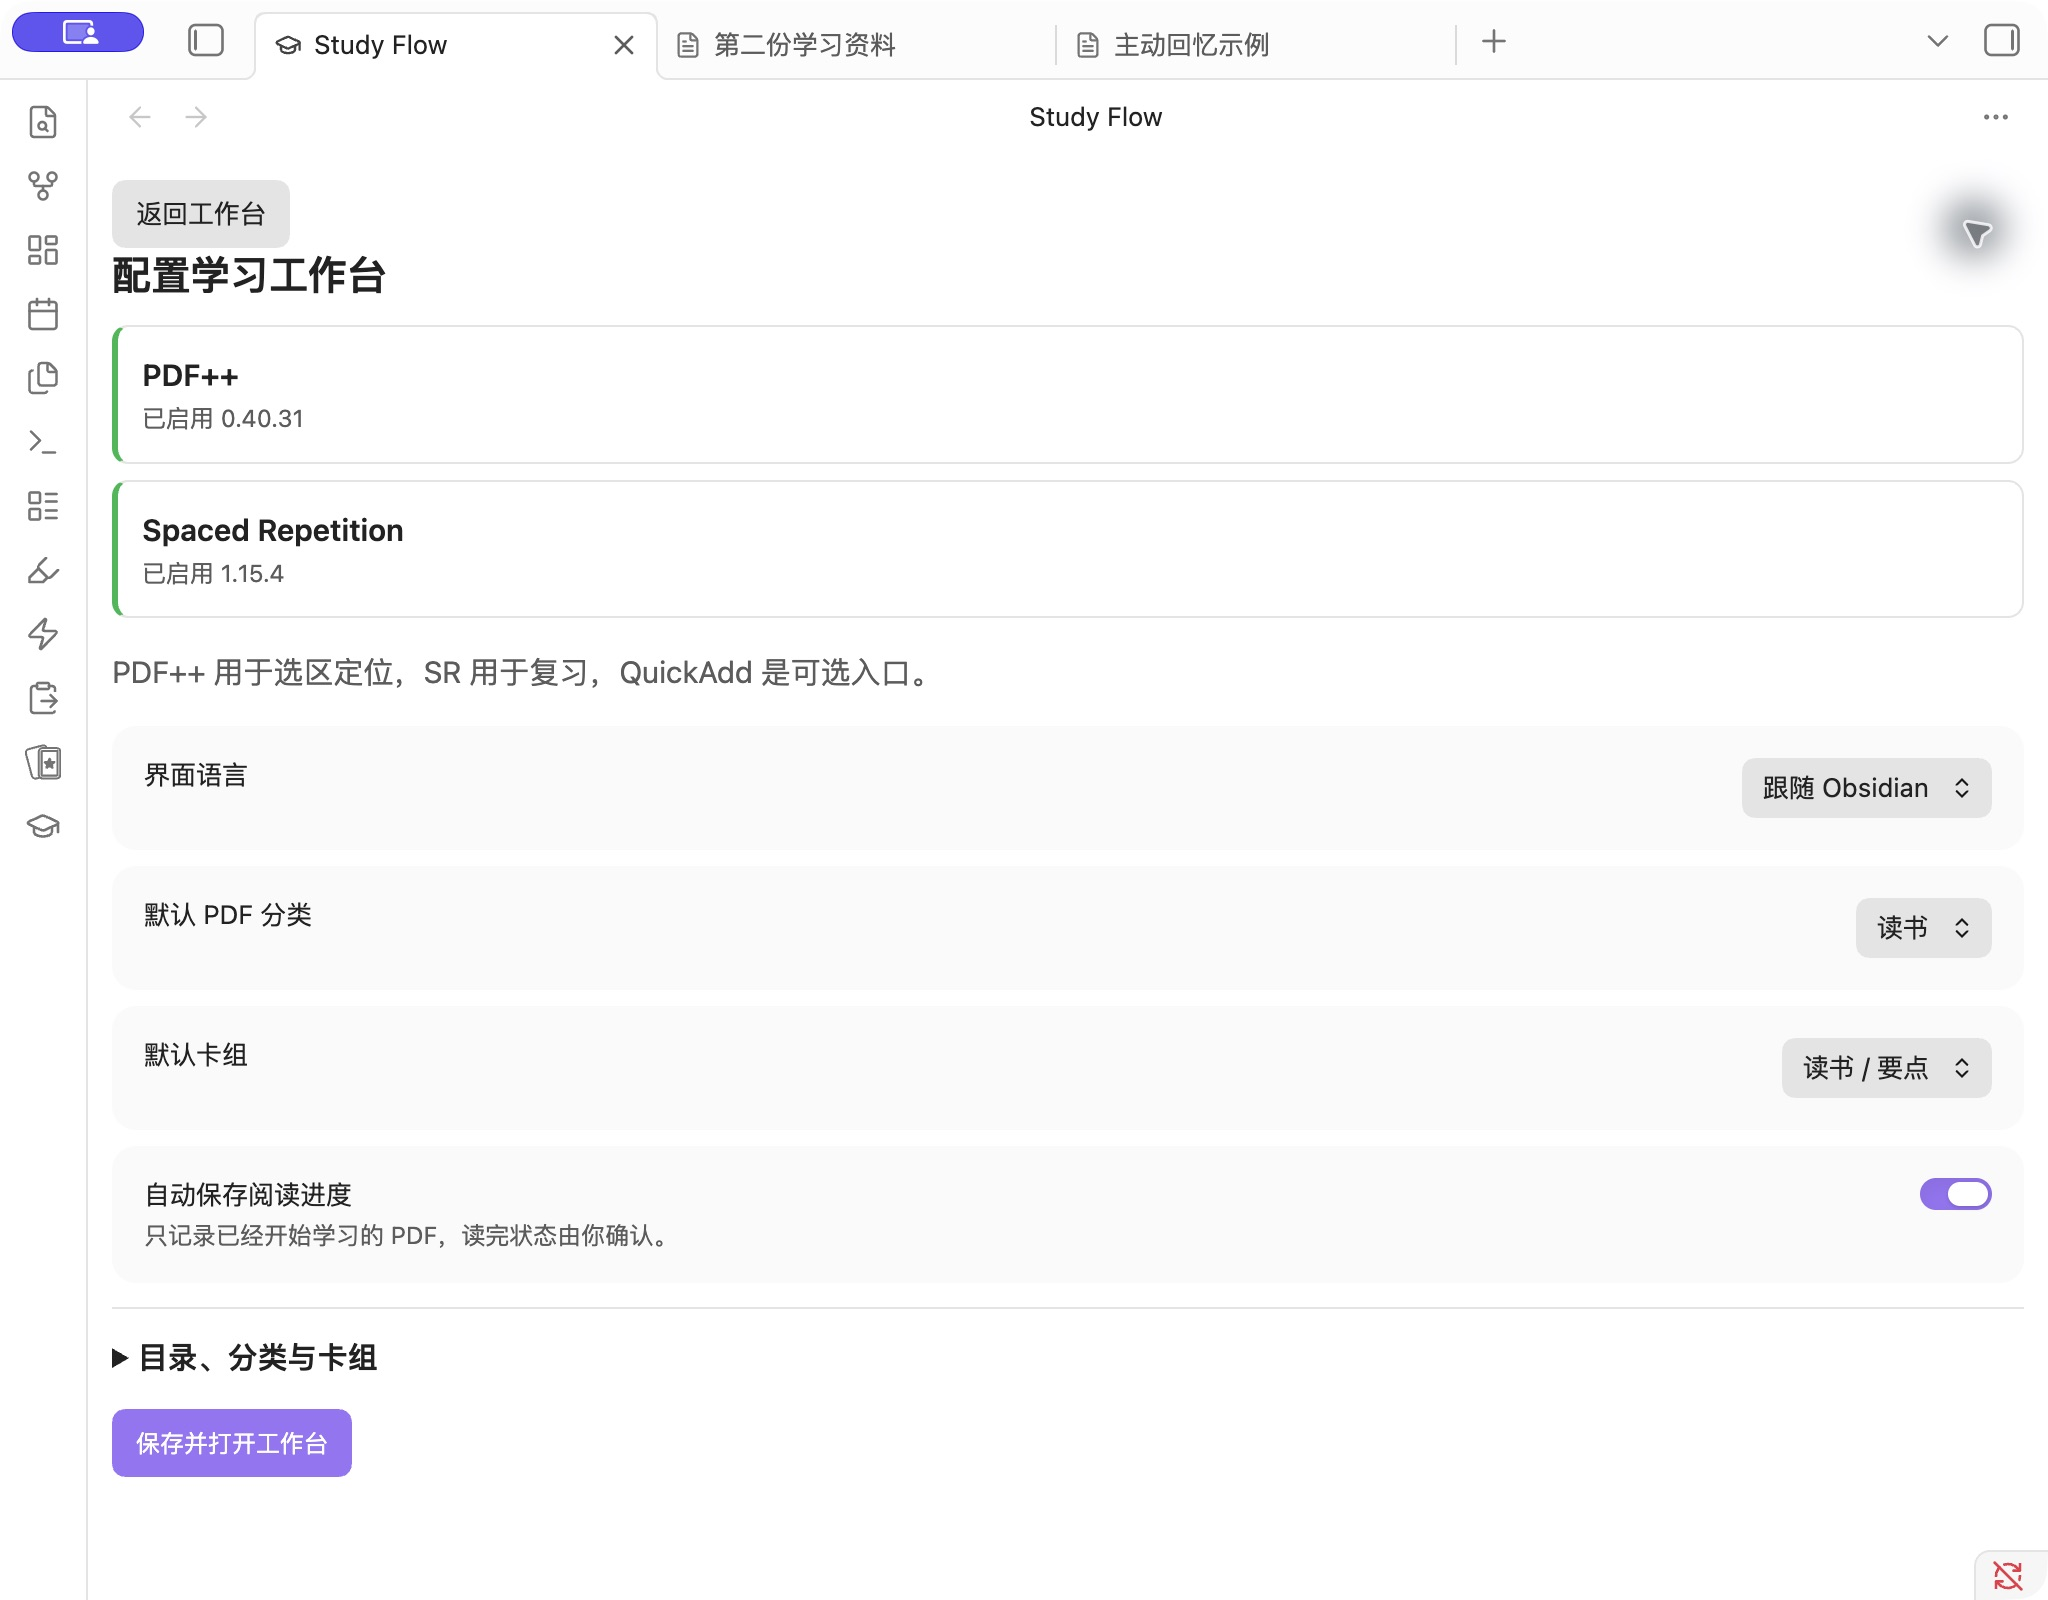
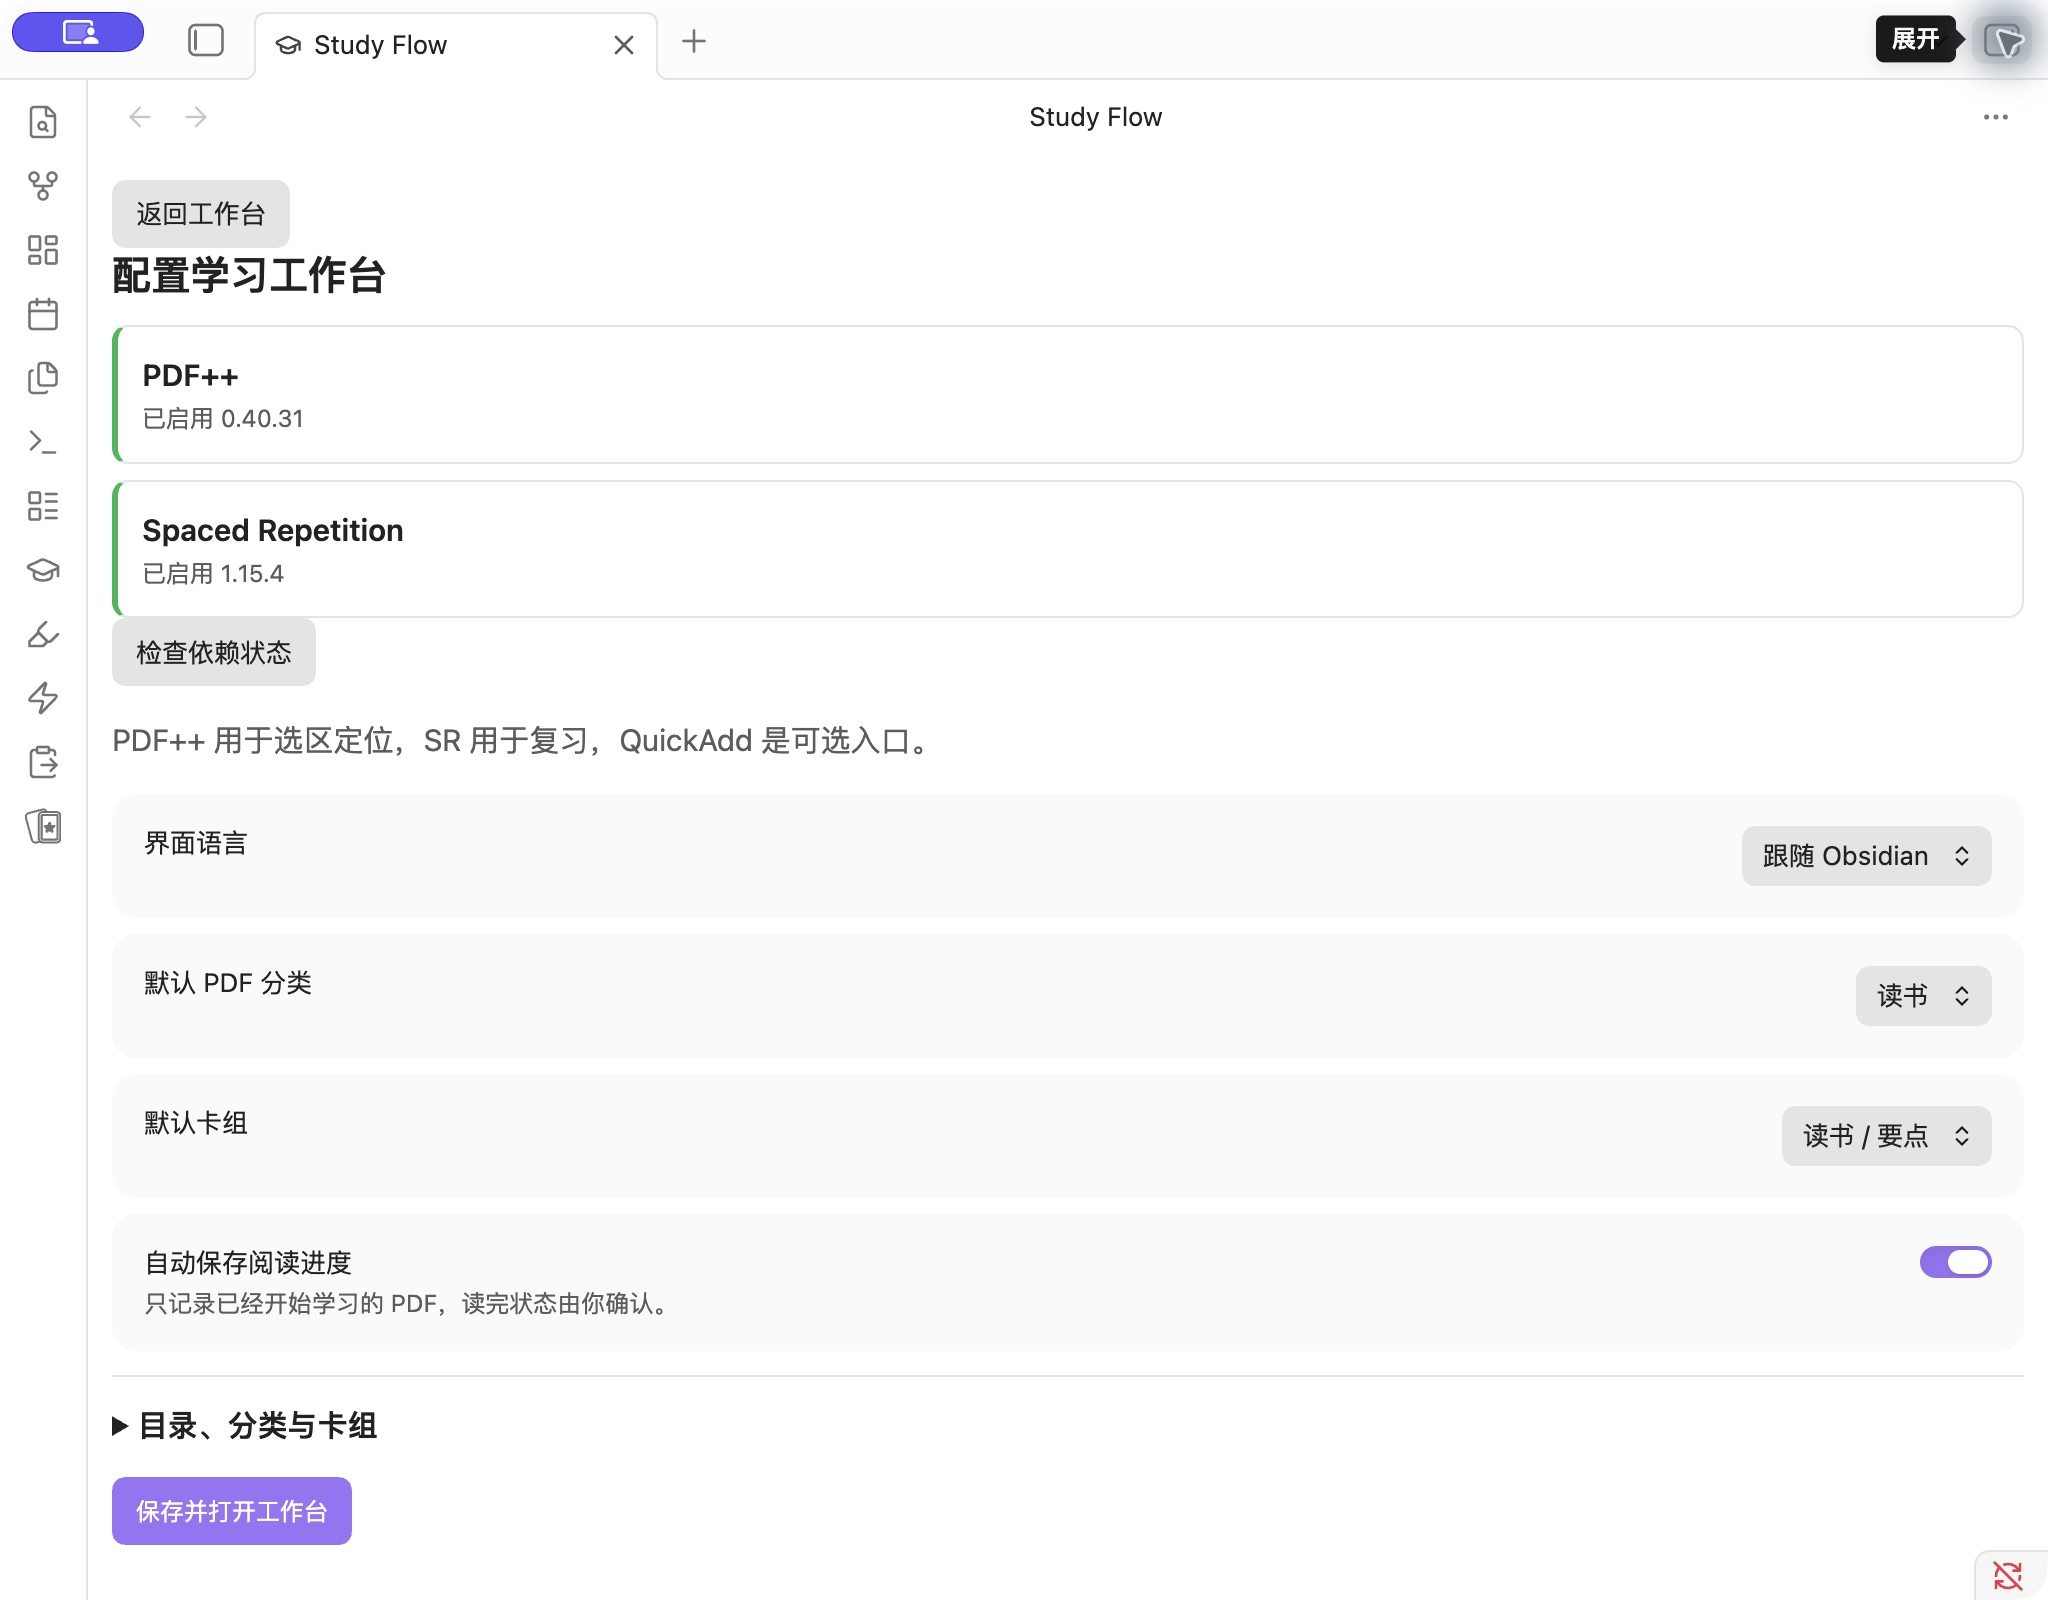
fix: refresh onboarding dependencies while preserving draft settings

diff --git a/src/ui/workbench.ts b/src/ui/workbench.ts
@@ -49,6 +49,7 @@ export class Workbench extends ItemView {
   private timer?: number;
   private closed = false;
   private configuring = false;
+  private configuration?: Configuration;
   constructor(
     leaf: WorkspaceLeaf,
     private plugin: StudyFlowPlugin,
@@ -80,6 +81,11 @@ export class Workbench extends ItemView {
   async onOpen(): Promise<void> {
     this.closed = false;
     this.contentEl.addClass("study-flow");
+    this.registerDomEvent(
+      this.containerEl.ownerDocument.defaultView ?? window,
+      "focus",
+      () => this.configuration?.refreshDependencies(),
+    );
     this.unsubscribe = this.plugin.service.index.subscribe(() => {
       if (this.timer) window.clearTimeout(this.timer);
       this.timer = window.setTimeout(() => this.render(), 100);
@@ -88,6 +94,7 @@ export class Workbench extends ItemView {
   }
   async onClose(): Promise<void> {
     this.closed = true;
+    this.configuration = undefined;
     this.unsubscribe?.();
     if (this.timer) window.clearTimeout(this.timer);
     this.contentEl.empty();
@@ -113,13 +120,15 @@ export class Workbench extends ItemView {
       this.configuring = true;
       const done = () => {
         this.configuring = false;
+        this.configuration = undefined;
         this.render();
       };
       if (p.settings.onboardingDone) {
         root.empty();
         action(root, t("返回工作台", "Back to workbench"), done, p);
       }
-      new Configuration(root, p, done).render();
+      this.configuration = new Configuration(root, p, done);
+      this.configuration.render();
     };
     action(header, t("设置", "Settings"), configure, p).addClass("sf-quiet");
     if (!p.ready) {
@@ -670,6 +679,7 @@ export class Workbench extends ItemView {
 }
 export class Configuration {
   private draft: Settings;
+  private dependenciesEl?: HTMLElement;
   constructor(
     private parent: HTMLElement,
     private plugin: StudyFlowPlugin,
@@ -677,12 +687,12 @@ export class Configuration {
   ) {
     this.draft = structuredClone(plugin.settings);
   }
-  render(): void {
+  refreshDependencies(): void {
     const p = this.plugin,
       t = p.t.bind(p),
-      root = this.parent.createDiv({ cls: "sf-configuration" });
-    root.createEl("h3", { text: t("配置学习工作台", "Set up your workbench") });
-    const deps = root.createDiv({ cls: "sf-dependencies" });
+      deps = this.dependenciesEl;
+    if (!deps?.isConnected) return;
+    deps.empty();
     for (const [id, name] of [
       ["pdf-plus", "PDF++"],
       ["obsidian-spaced-repetition", "Spaced Repetition"],
@@ -707,6 +717,20 @@ export class Configuration {
           p,
         );
     }
+  }
+  render(): void {
+    const p = this.plugin,
+      t = p.t.bind(p),
+      root = this.parent.createDiv({ cls: "sf-configuration" });
+    root.createEl("h3", { text: t("配置学习工作台", "Set up your workbench") });
+    this.dependenciesEl = root.createDiv({ cls: "sf-dependencies" });
+    this.refreshDependencies();
+    action(
+      root,
+      t("检查依赖状态", "Check dependencies"),
+      () => this.refreshDependencies(),
+      p,
+    );
     root.createEl("p", {
       cls: "sf-muted",
       text: t(

diff --git a/docs/validation-v0.2.md b/docs/validation-v0.2.md
@@ -24,7 +24,7 @@
 
 1,000 条验证是服务和索引测试，不代表应用内性能压力测试。多窗口和第三方内部接口需结合真实应用检查，不能由纯单元测试代替。
 
-CI 在 Windows / macOS / Linux 的 Node 20 环境执行安装、严格检查、45 项测试与打包；具体状态请看本 PR 的 [Actions](https://github.com/crown-sports/obsidian-study-flow/actions)。运行成功只证明构建和文件验证，不代表这些系统全部完成应用验收。
+CI 在 Windows / macOS / Linux 的 Node 20 环境执行安装、严格检查、45 项测试与打包。[首轮三个系统均成功](https://github.com/crown-sports/obsidian-study-flow/actions/runs/37260377072)，后续提交的状态见本 PR 的 [Actions](https://github.com/crown-sports/obsidian-study-flow/actions)。运行成功只证明构建和文件验证，不代表这些系统全部完成应用验收。
 
 ## 真实 Obsidian 验收
 
@@ -33,7 +33,8 @@ CI 在 Windows / macOS / Linux 的 Node 20 环境执行安装、严格检查、4
 | 操作 | 实际结果 |
 | --- | --- |
 | 插件加载与设置 | 注册命令、侧栏 / 主标签页工作台、默认设置保存，中英文切换成功 |
-| 安装包独立启动 | 从原生示例 ZIP 解压后直接在 Obsidian 打开，Study Flow 加载；未安装依赖时显示各自的安装入口 |
+| 安装包独立启动 | 从原生示例 ZIP 解压后直接在 Obsidian 打开，Study Flow 加载；通过上手页进入官方社区市场安装并启用两项依赖，使用第三方默认配置完成摘录、理解、草稿、发布和 SR 评分，无需 QuickAdd |
+| 上手页刷新 | 暂时停用 PDF++ 后返回配置页，显示未启用；重新启用后恢复版本状态，未保存的“考试”分类选择保留 |
 | 连续摘录 | 从 PDF 真选区采集，直接写摘录并停留阅读位置；重复选区返回已有文件；第二段侧栏按钮采集后选区保持 |
 | 重新加载 | 重载后书本、摘录、理解与卡片从 Markdown 恢复 |
 | 阅读进度 | A 页码 2 / B 页码 1 独立保存；A 到最后一页仍是“阅读中”；非活动同 PDF 标签页不会覆盖进度 |
@@ -41,10 +42,12 @@ CI 在 Windows / macOS / Linux 的 Node 20 环境执行安装、严格检查、4
 | 预览 / 发布 / 评分 | 展示正反面，发布后从工作台进入 SR 原生界面；显示答案与来源，点击“记得”写入真实调度 |
 | 评分后编辑 | 同时修改问题、答案和卡组，原文件 `5462d337` 的 ID / 路径保持，`<!--SR:!2026-10-08,3,250-->` 保留 |
 | 返回原文 | 点击摘录的原文入口，实际打开 PDF 并高亮对应两行 |
+| PDF 缺失与恢复 | 将原创 PDF 移出示例库后，原文入口仍展示快照；在工作台重新关联替代 PDF，书本 / 摘录 / 卡片来源更新，卡片 ID、路径及已评分调度保持 |
 | 复习统计 | 两张卡评分后显示 0 张到期 / 0 张新卡；未来已调度卡不误计为到期，范围明确为全部 SR 卡组 |
 | 图片剪贴板 | 用 macOS 预览复制原创 PDF 渲染图，原生入口显示图像；取消未生成卡片或附件目录，保存草稿写入 PNG 和卡片 |
 | 笔记与剪贴板 | Markdown 编辑器选区带入问题；切换 PDF 无笔记选区后读取同一剪贴板文字；取消不新增文件 |
 | 停用 / 启用 | 停用清理旧工作台视图与 ribbon；启用恢复单个 ribbon、命令及已有数据 |
+| 多窗口 | 工作台标签页移至新窗口，筛选、模态框编辑和保存正常；关闭弹出窗口后，主窗口显示同一摘录的新理解，无重复文件或残留工作台 |
 
 Windows / Linux 应用操作、移动端采集、自定义 FSRS 实际评分、1,000 条真实应用压力测试尚未验收。操作系统截图快捷键在本次自动化环境未成功触发；本次图像输入验收使用预览应用复制原创 PNG，不宣称系统截图快捷键已验证。
 
@@ -60,5 +63,6 @@ Windows / Linux 应用操作、移动端采集、自定义 FSRS 实际评分、1
 - SR `dueRepItems` 也包含未来卡片。统计适配器验证 `isDue`，不把未来卡片当作已到期；未知结构或同步中不展示数量。
 - 同一 PDF 的非活动标签页可覆盖进度。现在只观察当前 reader，并在切换时刷新。
 - 截图 PNG 转成精确的 ArrayBuffer，写入延迟到卡片保存；取消与失败路径由测试和真实取消验证。
+- 配置页保留未保存的输入时，依赖安装状态曾不刷新。现在返回窗口时只刷新依赖区域，并提供手动检查按钮，保留配置草稿。
 
 遇到后续版本接口变化时，保留数据并说明受影响功能。提交 Issue 请附插件版本、原创资料的最小复现步骤与可公开的截图，避免附个人学习文件或账户配置。

diff --git a/docs/native-guide.md b/docs/native-guide.md
@@ -14,7 +14,7 @@ v0.2 是原生桌面插件预览，尚未正式发布或上架社区市场。安
 
 已有库：解压插件 ZIP，将整个 `study-flow` 文件夹放到库内 `.obsidian/plugins/`，重启 Obsidian，再在设置 → 第三方插件中启用 **Study Flow**。示例库：直接将解压的 `Study-Flow-Example` 文件夹作为新库打开，再启用 Study Flow。建议先在示例库练习。
 
-在社区插件市场安装并启用 **PDF++**、**Spaced Repetition**。工作台提供各自的安装入口，并显示启用状态和版本；安装后返回工作台配置。Study Flow 不修改第三方插件设置。
+在社区插件市场安装并启用 **PDF++**、**Spaced Repetition**。工作台提供各自的安装入口，并显示启用状态和版本；安装后返回工作台配置，状态会刷新，也可点击“检查依赖状态”。当前尚未保存的配置保留。Study Flow 不修改第三方插件设置。
 
 ## 1. 保存默认配置
 

diff --git a/docs/native-guide.en.md b/docs/native-guide.en.md
@@ -14,7 +14,7 @@ v0.2 is a desktop plugin preview, delivered through a feature PR. It has no form
 
 For an existing vault, copy the extracted `study-flow` folder into `.obsidian/plugins/`, restart Obsidian and enable **Study Flow** in Community Plugins. For the example, open the extracted `Study-Flow-Example` folder as a new vault, then enable Study Flow.
 
-Install and enable **PDF++** and **Spaced Repetition** from the community browser. The workbench offers their install links and reports enabled versions. Study Flow does not change their settings.
+Install and enable **PDF++** and **Spaced Repetition** from the community browser. The workbench offers their install links and reports enabled versions. Returning to the workbench refreshes status; **Check dependencies** is also available without losing unsaved configuration. Study Flow does not change their settings.
 
 ## 1. Save the defaults
 
